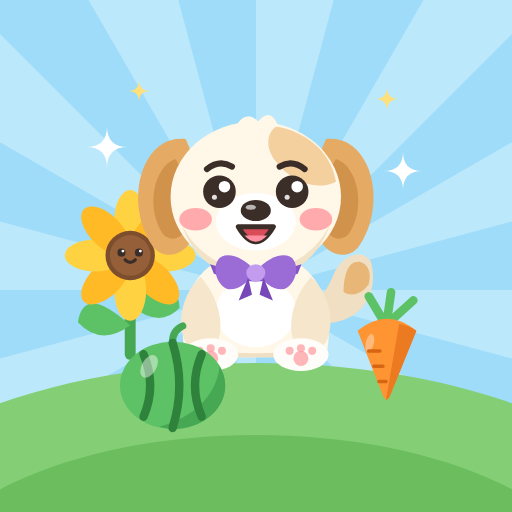
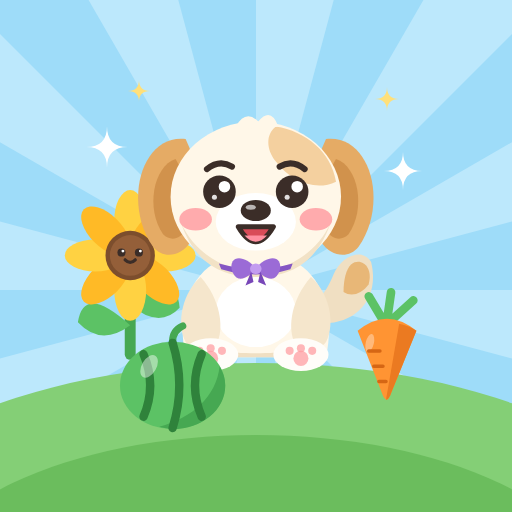
Refine soil beds, reindeer festive collar and smaller puppy bow

Changed region(s): [[0.4062, 0.5, 0.5938, 0.5938]]

diff --git a/src/components/ArtFlat.tsx b/src/components/ArtFlat.tsx
@@ -130,10 +130,10 @@ export const flatArt: Record<string, Draw> = {
       {/* Signature purple bow at the neck */}
       <g
         className="puppy-bow"
-        transform="translate(60 76) scale(0.76) translate(-60 -76)"
+        transform="translate(60 74.5) scale(0.46) translate(-60 -76)"
       >
         <path
-          d="M36 72q24 8 48 0l-2 5q-22 8-44 0Z"
+          d="M28 72q32 9 64 0l-2 5q-30 9-60 0Z"
           fill="#8556c4"
         />
         <path
@@ -172,9 +172,13 @@ export const flatArt: Record<string, Draw> = {
       <circle cx="78" cy="92" r="2.8" fill="#fae8d0" opacity="0.7" />
       <circle cx="38" cy="100" r="2.2" fill="#fae8d0" opacity="0.7" />
       <circle cx="82" cy="100" r="2.2" fill="#fae8d0" opacity="0.7" />
-      {/* Cozy mint scarf */}
-      <path d="M38 73q22 12 44 0l2 8q-24 11-48 0Z" fill="#42b888" />
-      <path d="M68 78l7 17-10-2-3-15Z" fill="#329c70" />
+      {/* Festive red collar with golden sleigh bell */}
+      <path d="M39 73q21 10 42 0l1.5 6.5q-22.5 10-45 0Z" fill="#e64543" />
+      <path d="M40 76.5q20 9 40 0" stroke="#c92e2c" strokeWidth="1.8" fill="none" strokeLinecap="round" />
+      <circle cx="60" cy="82" r="5" fill="#ffd03b" stroke="#d49b1a" strokeWidth="1.2" />
+      <circle cx="58.5" cy="80.5" r="1.4" fill="#fff8c4" />
+      <circle cx="60" cy="83.2" r="1.2" fill="#8a5632" />
+      <path d="M60 83.2v2.8" stroke="#8a5632" strokeWidth="1.2" strokeLinecap="round" />
       {/* Cute cloven hooves */}
       <rect x="36" y="104" width="16" height="9" rx="4.5" fill="#633b20" />
       <rect x="68" y="104" width="16" height="9" rx="4.5" fill="#633b20" />

diff --git a/src/style.module.css b/src/style.module.css
@@ -205,12 +205,6 @@ main {
   padding: 0;
   align-self: end;
 }
-.soil:after {
-  content: "";
-  position: absolute;
-  border-top: 2px dashed var(--scene-soil-row);
-  inset: 40% 12%;
-}
 .soil-mark {
   color: var(--scene-soil-mark);
   font-size: 30px;

diff --git a/docs/ARTWORK_HANDOFF.vi.md b/docs/ARTWORK_HANDOFF.vi.md
@@ -102,7 +102,7 @@ Giao diện theo chế độ Sáng, Tối và Theo hệ thống; tranh thì khô
 
 ## Nhất quán nhân vật
 
-Cún Lucky: nhỏ, tròn trịa, lông trắng kem, đầu tròn, tai cụp màu nâu nhạt, mắt chấm có đốm sáng, mũi nhỏ sẫm, lưỡi hồng và má hồng, nơ tím nhỏ ở cổ, đuôi ngắn cong; kiểu hoạt hình bo tròn, không phải chó thật. Tuần Lộc nhỏ: nâu ấm, bụng và mõm màu kem, hai sừng nhỏ, mũi nâu đỏ và má hồng. Không đổi quần áo giữa pose. Giữ tỉ lệ đầu/tai theo SVG tham chiếu. Chim: thân bầu xanh xám, mỏ vàng hướng phải, chân ngắn. Bướm: cánh trên hồng, dưới vàng, thân rêu mảnh, hai râu. Bọ rùa: áo đất đỏ chấm rêu; sâu xanh nhạt; cá vàng cam hướng phải. Mây/nắng mắt chấm và cười nhẹ. Duyệt reference sheet trước; dùng lại reference/seed nếu model hỗ trợ.
+Cún Lucky: nhỏ, tròn trịa, lông trắng kem, đầu tròn, tai cụp màu nâu nhạt, mắt chấm có đốm sáng, mũi nhỏ sẫm, lưỡi hồng và má hồng, nơ tím nhỏ ở cổ, đuôi ngắn cong; kiểu hoạt hình bo tròn, không phải chó thật. Tuần Lộc nhỏ: nâu ấm, bụng và mõm màu kem, hai sừng nhỏ, mũi đỏ, má hồng và đeo vòng cổ đỏ kèm chuông vàng. Không đổi quần áo giữa pose. Giữ tỉ lệ đầu/tai theo SVG tham chiếu. Chim: thân bầu xanh xám, mỏ vàng hướng phải, chân ngắn. Bướm: cánh trên hồng, dưới vàng, thân rêu mảnh, hai râu. Bọ rùa: áo đất đỏ chấm rêu; sâu xanh nhạt; cá vàng cam hướng phải. Mây/nắng mắt chấm và cười nhẹ. Duyệt reference sheet trước; dùng lại reference/seed nếu model hỗ trợ.
 
 ## Animation và lớp
 

diff --git a/docs/ARTWORK_HANDOFF.md b/docs/ARTWORK_HANDOFF.md
@@ -102,7 +102,7 @@ The interface follows Light, Dark and System appearance; artwork does not. Deliv
 
 ## Character consistency
 
-Lucky the puppy: small, chubby and cream-white, round head, floppy tan ears, dot eyes with a highlight, small dark nose, pink tongue and pink cheeks, a small purple bow at the neck, short curled tail; a rounded cartoon, not a realistic dog. The little reindeer: warm brown, cream belly and muzzle, two small antlers, a red-brown nose and pink cheeks. No clothing changes between poses. Keep head/ear proportions from the reference SVG. Bird: blue-gray oval body, right-facing yellow beak and short legs. Butterfly: pink upper wings, yellow lower wings, thin moss body and two antennae. Ladybug: terracotta shell with moss spots; worm pale green; fish orange-yellow facing right. Cloud and sun have dot eyes and gentle smiles. Approve a reference sheet first; reuse model references/seeds where supported.
+Lucky the puppy: small, chubby and cream-white, round head, floppy tan ears, dot eyes with a highlight, small dark nose, pink tongue and pink cheeks, a small purple bow at the neck, short curled tail; a rounded cartoon, not a realistic dog. The little reindeer: warm brown, cream belly and muzzle, two small antlers, a red nose, pink cheeks, and a festive red collar with a golden sleigh bell. No clothing changes between poses. Keep head/ear proportions from the reference SVG. Bird: blue-gray oval body, right-facing yellow beak and short legs. Butterfly: pink upper wings, yellow lower wings, thin moss body and two antennae. Ladybug: terracotta shell with moss spots; worm pale green; fish orange-yellow facing right. Cloud and sun have dot eyes and gentle smiles. Approve a reference sheet first; reuse model references/seeds where supported.
 
 ## Animation and layers
 
